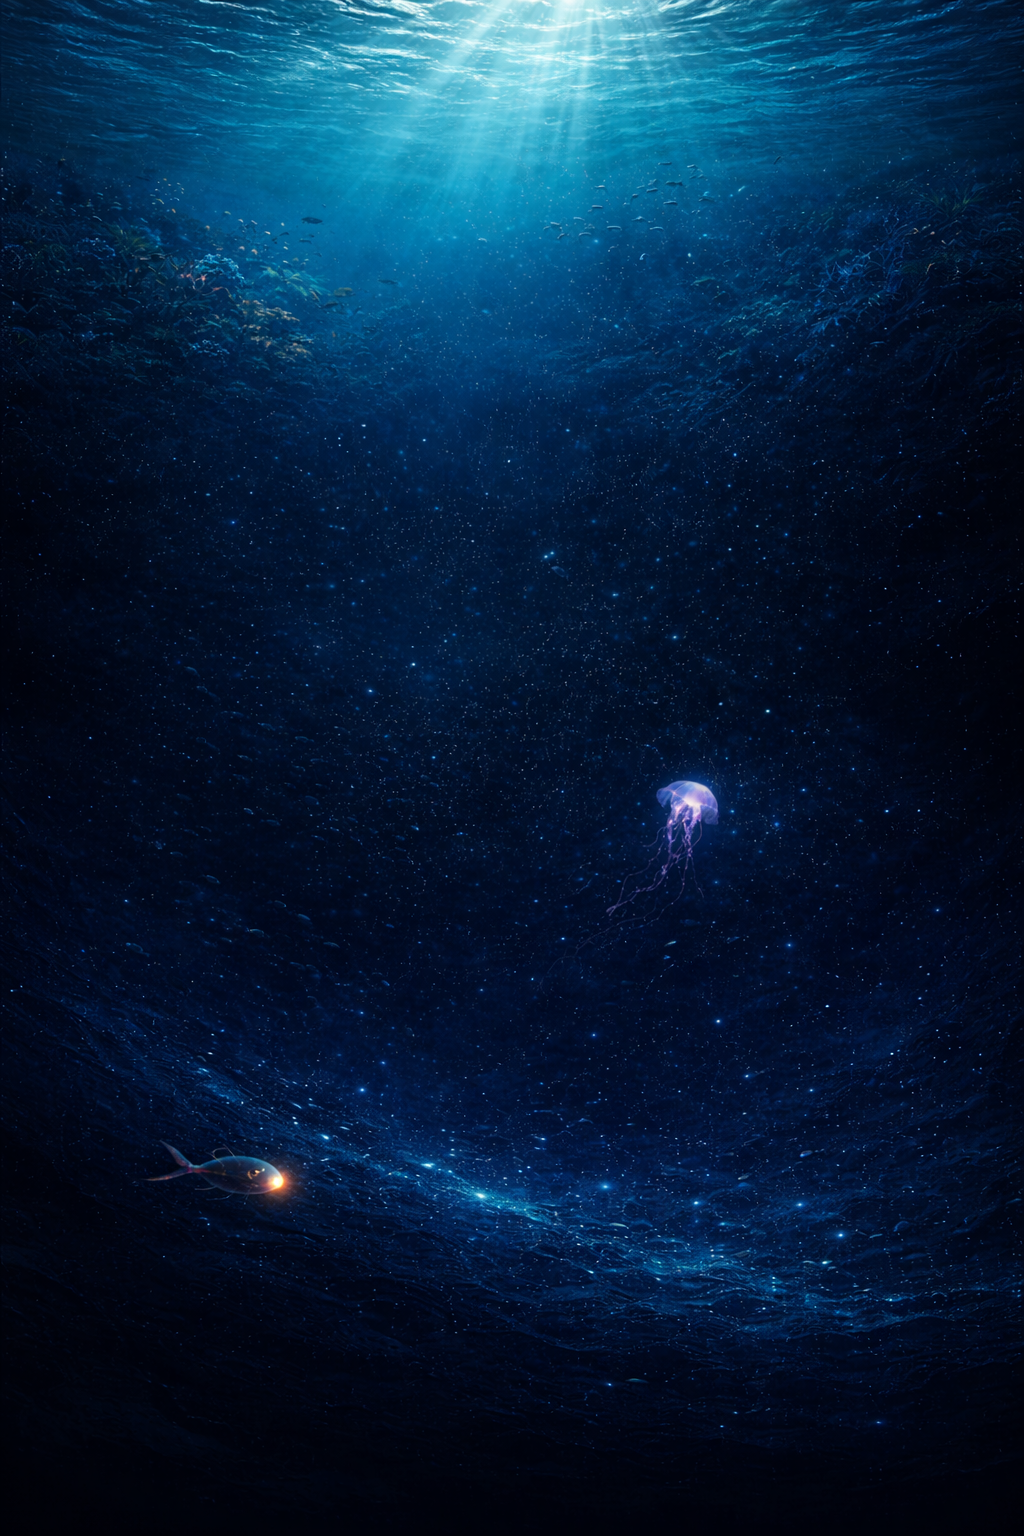
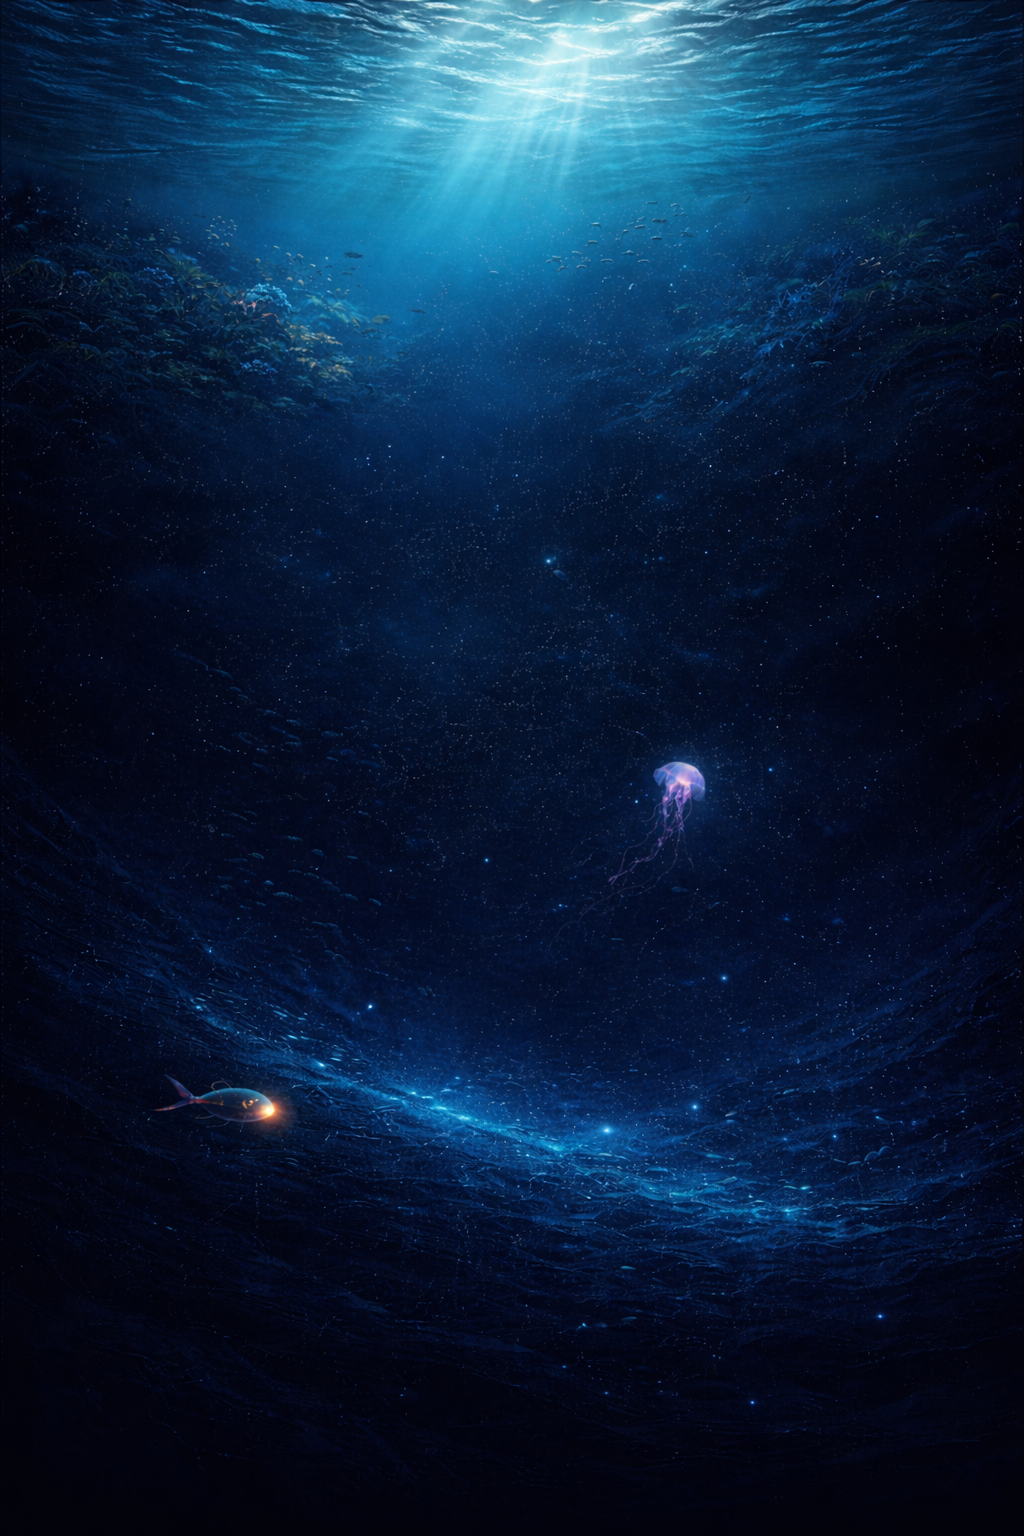
extra components removed+wallpaper

diff --git a/components/infinite-scroll.tsx b/components/infinite-scroll.tsx
@@ -158,7 +158,7 @@ const InfiniteScroll: React.FC<InfiniteScrollProps> = ({
           </p>
     <div
       className={twMerge(
-        "relative w-full overflow-hidden select-none z-40 py-2 sm:py-4 px-6 sm:px-8",
+        "relative w-full overflow-hidden select-none z-40 lg:py-4 sm:py-4 px-6 sm:px-8",
         className
       )}
       onPointerEnter={onPointerEnter}
@@ -187,9 +187,7 @@ const InfiniteScroll: React.FC<InfiniteScrollProps> = ({
       </div>
     </div>
 
-    <div
-         
-          className="mt-25 p-6 text-center border-t border-accent/20 pt-8"
+    <div className="mt-25 p-6 text-center pt-8"
         >
     <p className="text-muted-foreground mb-4">
             Interested in sponsoring Pratishruti?

diff --git a/app/page.tsx b/app/page.tsx
@@ -39,14 +39,17 @@ export default function Home() {
       <Hero />
       
 
-      <main className="relative bg-[url('/bgwebsite.png')] bg-autos">
+      <main className="relative bg-[url('/bgwebsite.png')] bg-auto">
         <AboutSection />
         <EventCarousel />
+</main>
+        <div className="relative bg-[url('/deeper.png')] bg-auto">
+        <InfiniteScroll/>
         <ArtistSection />
         {/* <JellyfishTimeline /> */}
-        <InfiniteScroll/>
-        {/* <AnimatedTreasureBox /> */}
-      </main>
+        
+        </div>
+      
 
       <DeepSeaFooter />
     </div>
